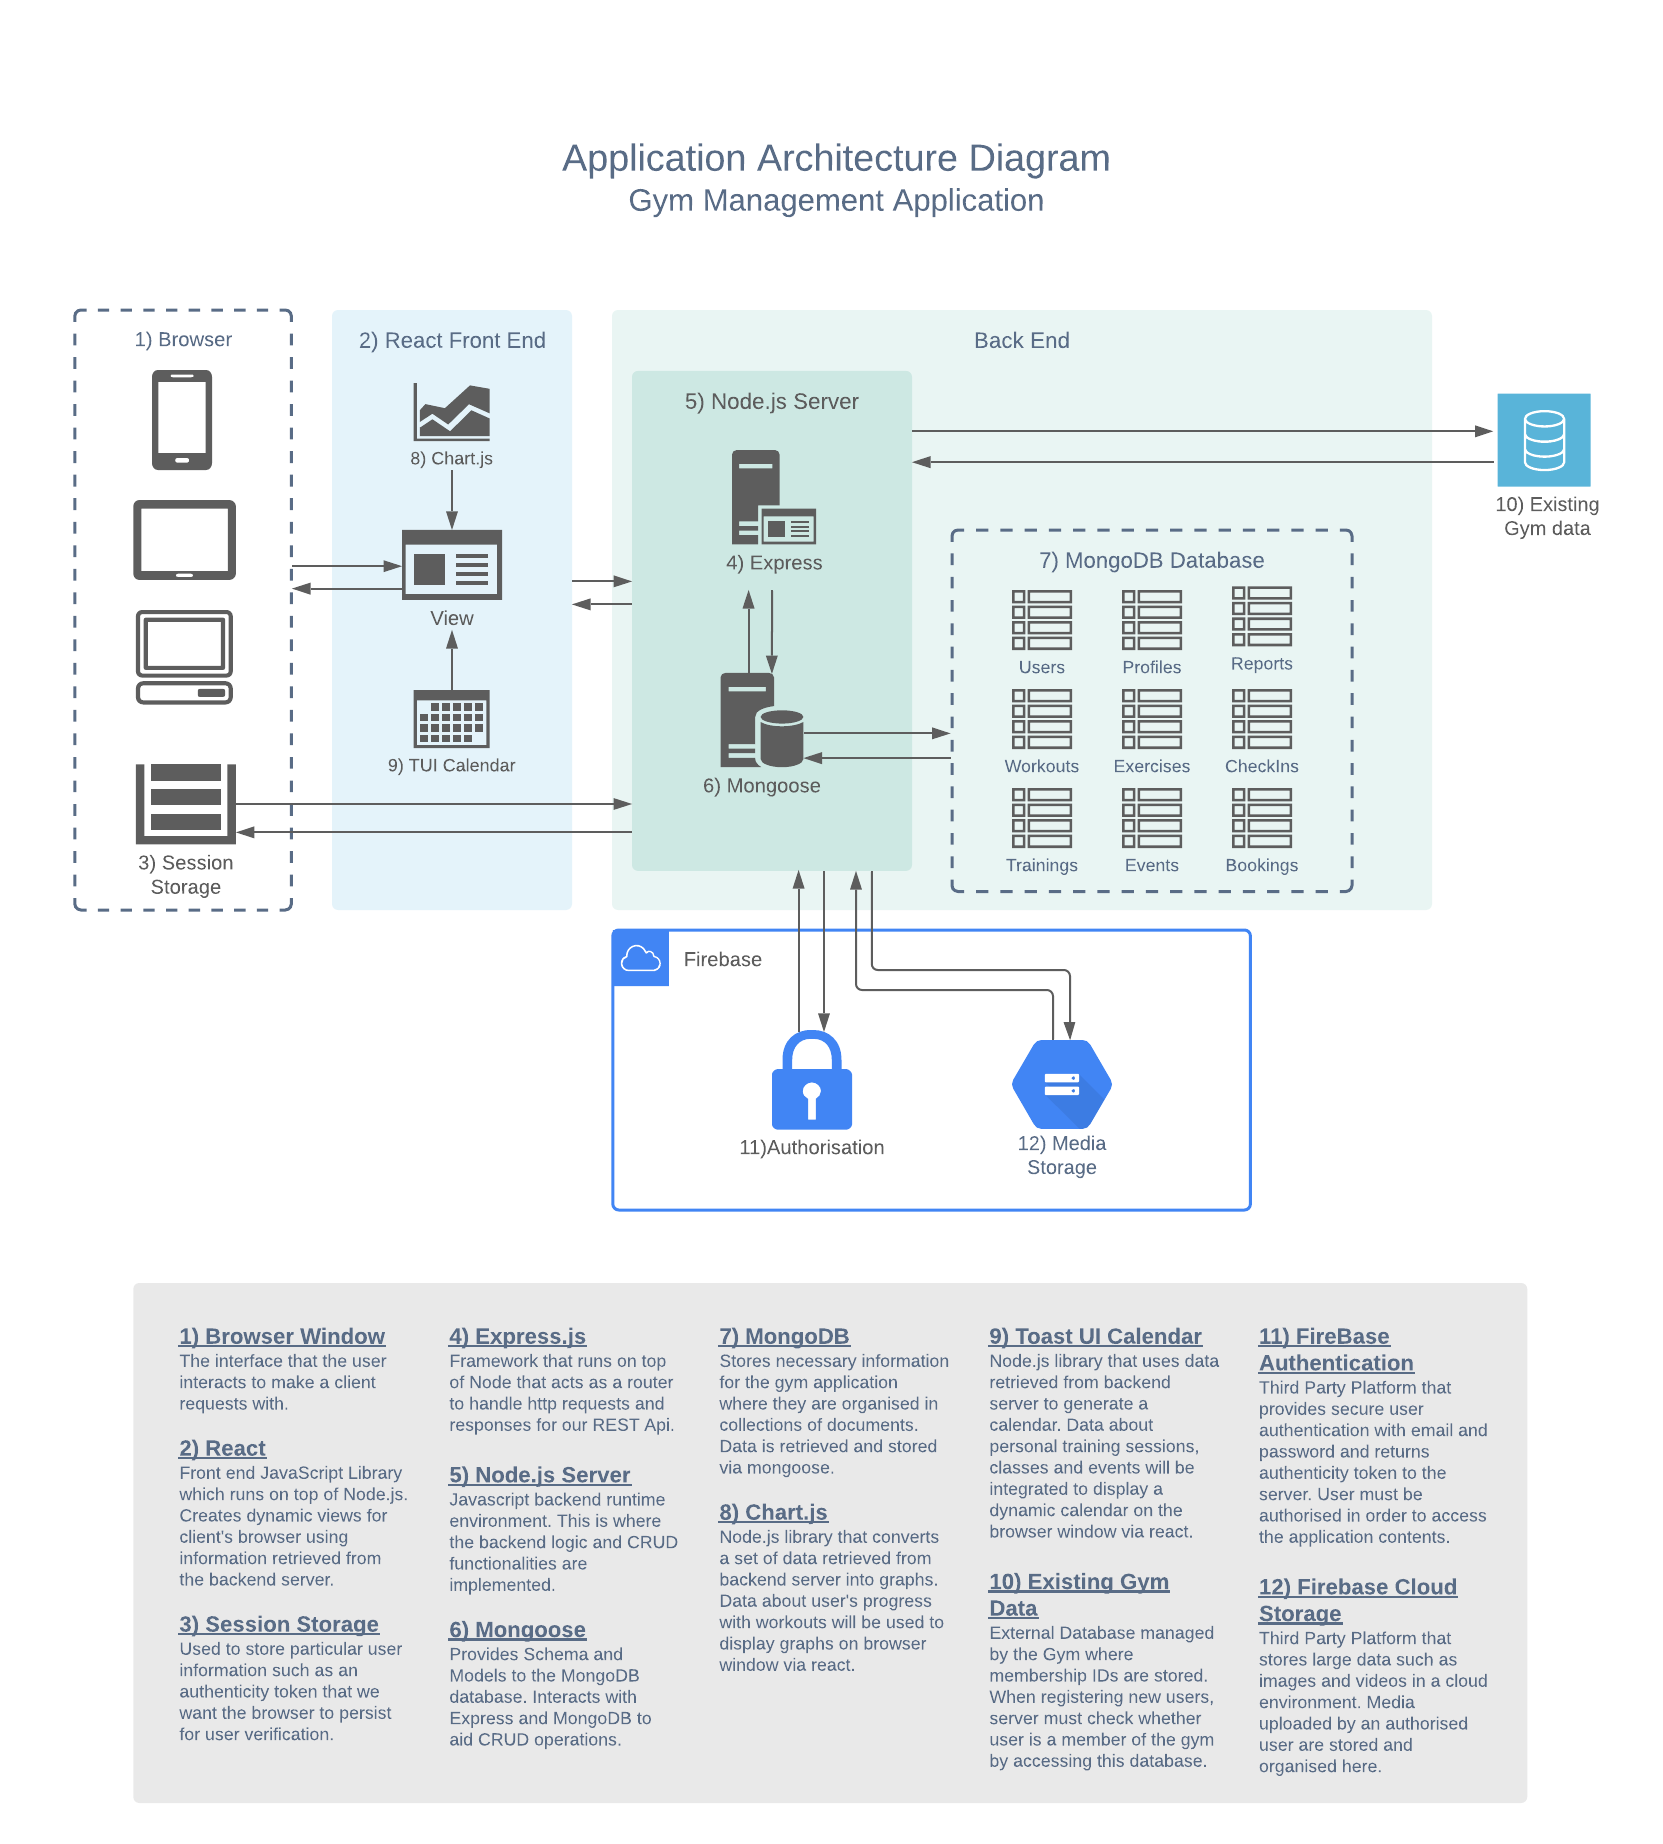
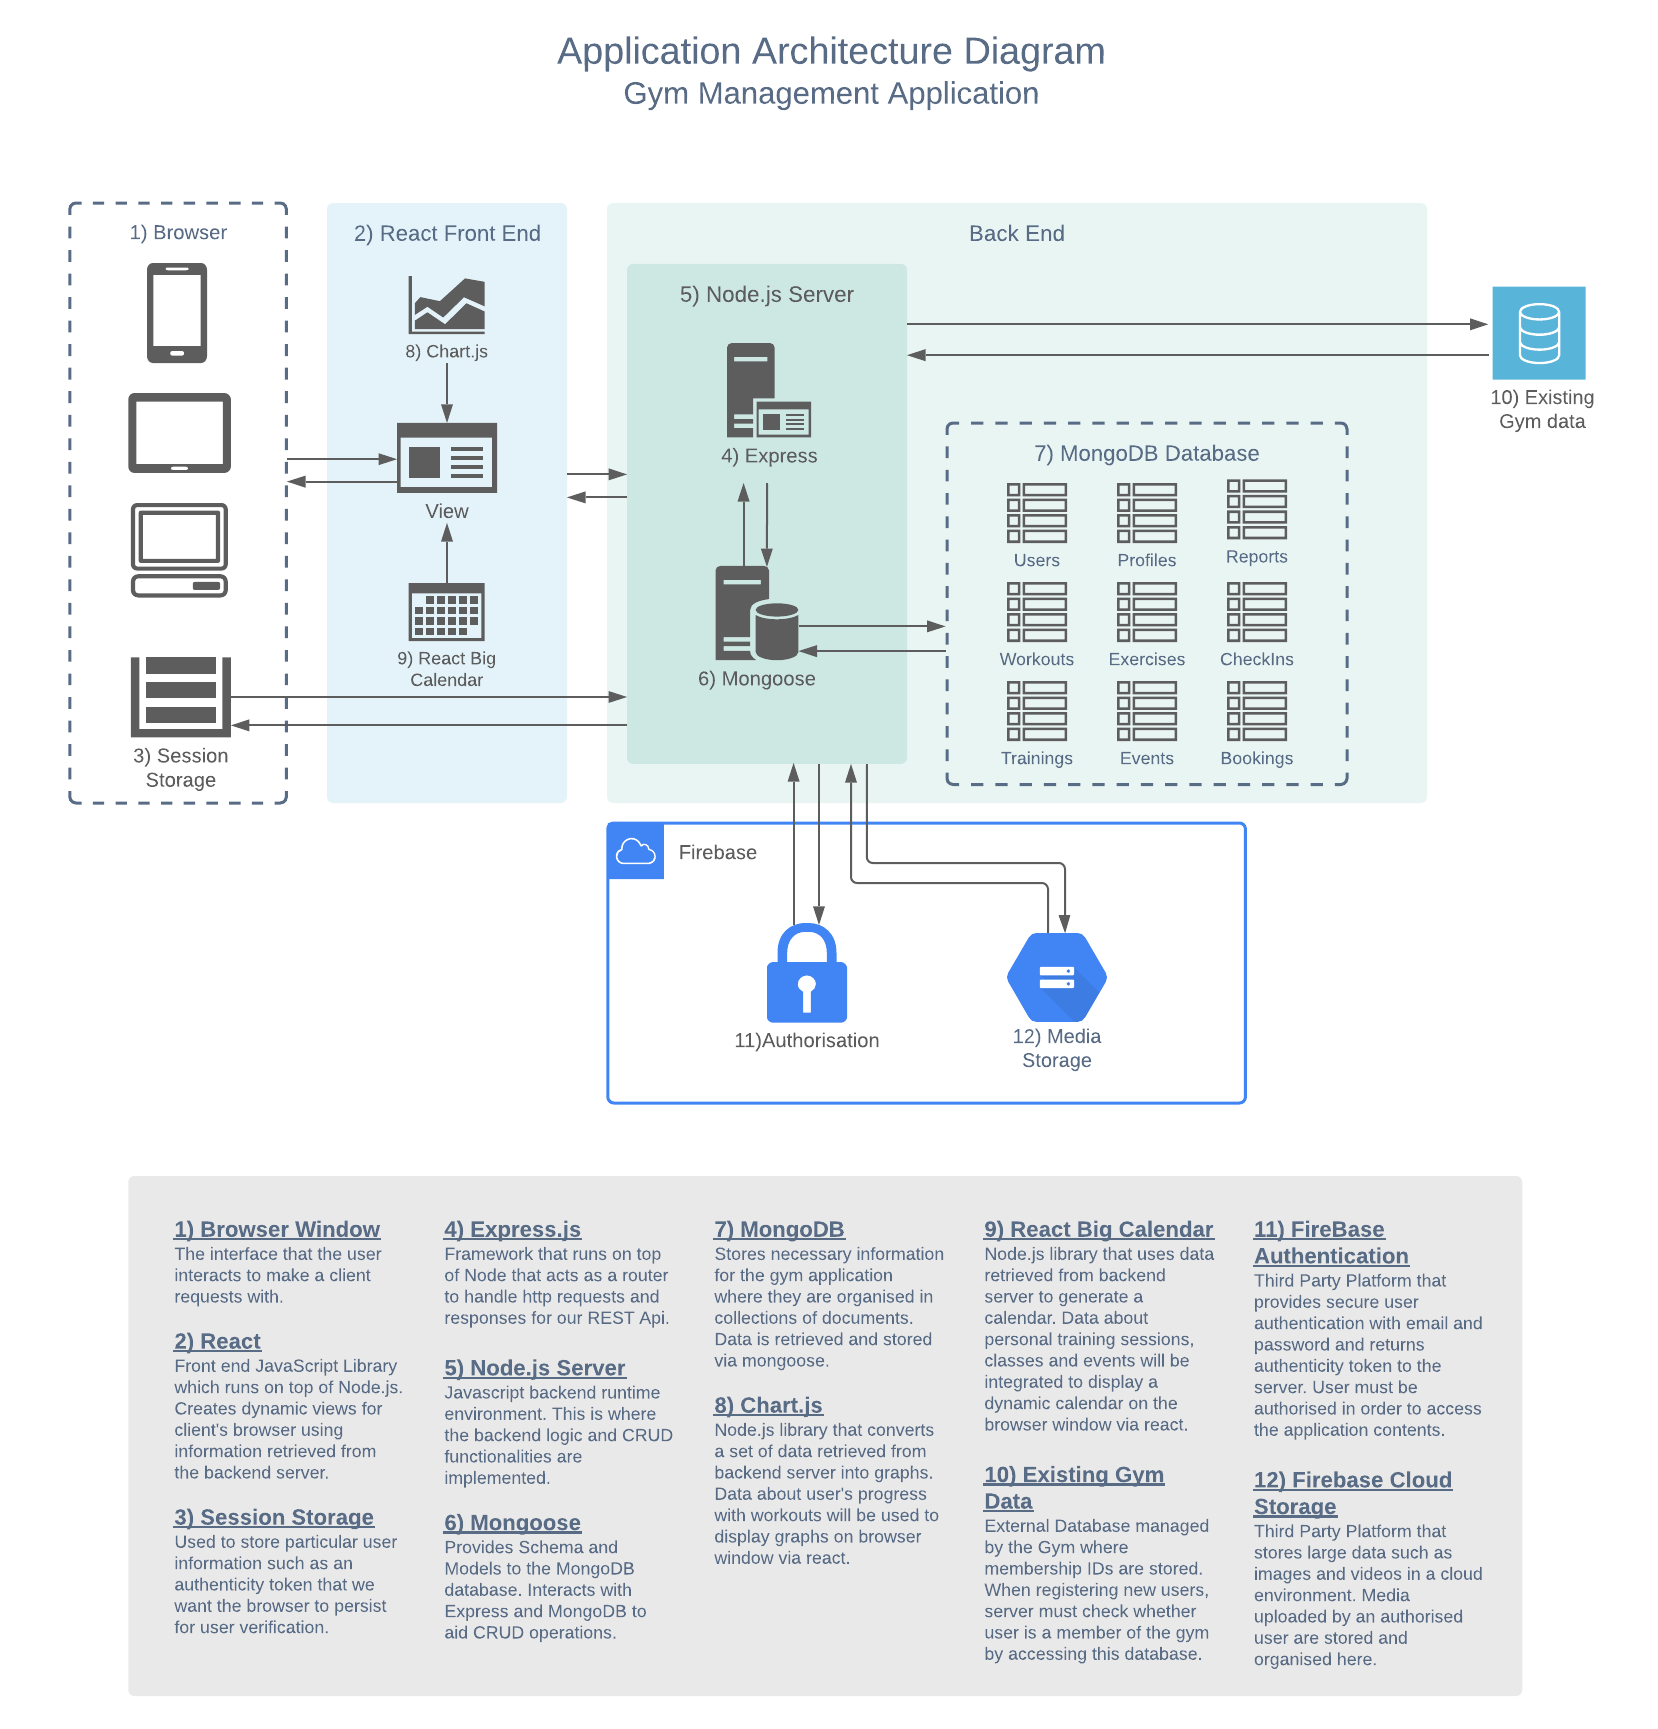
updated AAD< big calendar instead of tui

diff --git a/README.md b/README.md
@@ -110,7 +110,7 @@ Staff:
 
   **Front End**
   - React.js
-  - Toast UI Calendar
+  - React Big Calendar
   - Chart.js
   - Styled Components
   - Material UI
